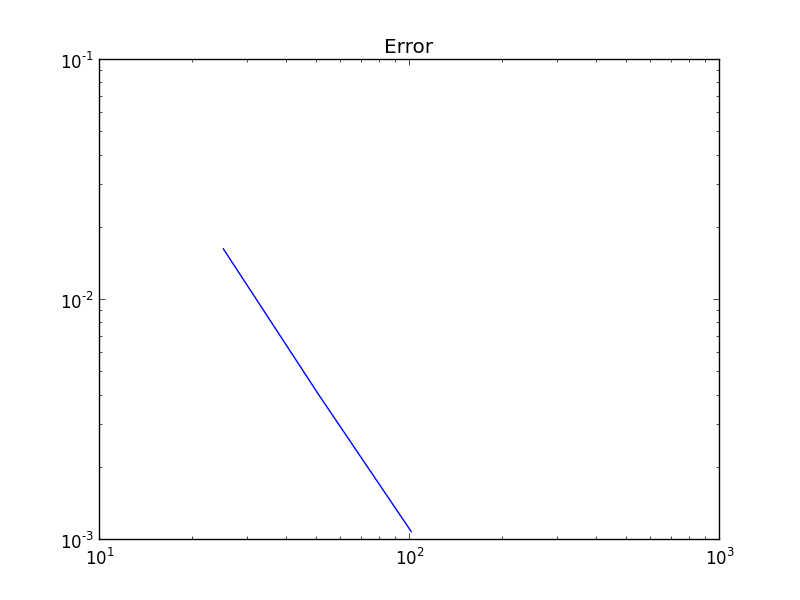
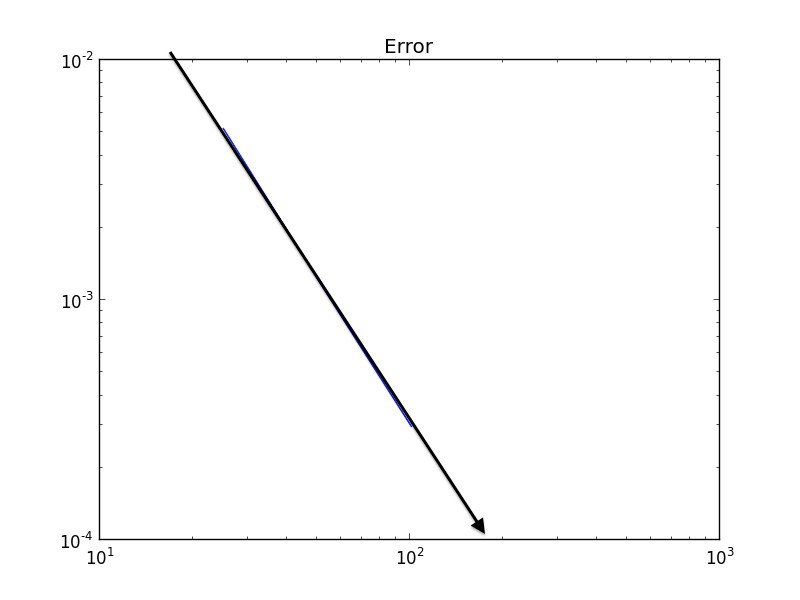
Same

diff --git a/2DAdvDiffEqConv.py b/2DAdvDiffEqConv.py
@@ -11,16 +11,17 @@ import errno
 ## 2DAdvDiffEq.py
 ## Remi Carmigniani
 ## Solves the 2D Diffusion Equation :
-## pd_t u[x,y,t] + pd_x u[x,y,t] + alpha * pd_y u[x,y,t] - 1/Pe(pd_xx u[x,y,t]+pd_yy u[x,y,t])  = 0 (x,y) in [0 2pi]^2
+## pd_t u[x,y,t] + pd_x u[x,y,t] +alpha pd_y u[x,y,t] - 1/Pe(pd_xx u[x,y,t]+pd_yy u[x,y,t])  = 0 (x,y) in [0 2pi]^2
 ## BC periodic
 ## IC u[x,y,0]=cos(x)+cos(y) 
 ## Convergence test\
 
+#IMPORTANT TO COPY A MATRIX USE u_old = [row[:] for row in u_arr] this will unlink them...
 
 ##Physical parameter
 Pe = 1.0
 L=2*pi
-alpha=0.1#Keep alpha smaller than 1
+
 ##################################################################################################################
 ############################			Useful functions		      ############################
 ##################################################################################################################
@@ -55,7 +56,7 @@ def iCond(x,y):
 
 
 #Exact solution
-def u_exact(x,y,t,Pe,apha):
+def u_exact(x,y,t,Pe,alpha):
 	return exp(-t/Pe)*(.5*cos(x-t) + .5*cos(y-alpha*t))
 
 ## Create a one row vector from the matrix u_arr
@@ -74,12 +75,21 @@ def vecToMatrix(u,nx,ny):
 		for j in range(0,ny):
 			Umat[i][j]=u[i*ny+j]
     	return Umat
+#Periodic BC
+def period(k,n):
+	if k==-1:
+		return n-2
+	else:
+		if k==n:
+			return 1
+		else:
+			return k 
 ##################################################################################################################
 ############################				End			      ############################
 ##################################################################################################################
 #Simulation parameters
 tend = 0.5
-
+alpha=0
 
 error=[]
 ## Series of N to try
@@ -93,7 +103,7 @@ for k in range(0,3):
 	dy=L/float(Ny-1)
 
 	## time parameters 
-	dt =0.01*dx*dx
+	dt =0.1*dx*dx
 	#to make sure tend is reached and stability ok
 	#dt = tend/float(int(tend/dt)+1)
 
@@ -101,11 +111,9 @@ for k in range(0,3):
 	# Laplacian terms
 	lx = 1.*dt/dx/dx
 	ly=1.*dt/dy/dy
-	# Adv terms
-	ax =.5*dt/dx
-	ay=.5*dt/dy*alpha
-
-
+	ax = 0.5*dt/dx
+	ay = 0.5*alpha*dt/dx
+	
 	## Figure numbering 
 	numb = 0
 	uval = iCond(0,0)
@@ -121,10 +129,10 @@ for k in range(0,3):
 	#for i in range(0,Nx):
 	#	for j in range(0,Ny):      
 	#		A[i*Ny+j][i*Ny+j]=1-2.*(lx+ly)
-	#		A[i*Ny+j][i*Ny+(j+1)%Ny] = ly-ay
-	#		A[i*Ny+j][i*Ny+(j-1)%Ny] = ly +ay 
-	#		A[i*Ny+j][((i+1)%Nx)*Ny+j] = lx-ax
-	#		A[i*Ny+j][((i-1)%Nx)*Ny+j] = lx+ax
+	#		A[i*Ny+j][i*Ny+(j+1)%Ny] = ly
+	#		A[i*Ny+j][i*Ny+(j-1)%Ny] = ly  
+	#		A[i*Ny+j][((i+1)%Nx)*Ny+j] = lx
+	#		A[i*Ny+j][((i-1)%Nx)*Ny+j] = lx
 	#convert u_arr to u_vec
 	#u_vec = matrixToVec(u_arr,Nx,Ny)
 	##Time loop
@@ -133,21 +141,22 @@ for k in range(0,3):
 		#print repr(t)
 		#update u_vec
 		#u_vec = np.dot(A,u_vec)
-		u_old = u_arr
+		u_old = [row[:] for row in u_arr]
 		for i in range(0,Nx):
 			for j in range(0,Ny):
-				u_arr[i][j]=u_old[i][j]*(1.-2.*(lx + ly)) + u_old[(i-1)%Nx][j]*(lx + ax)+u_old[(i+1)%Nx][j]*(lx - ax)+u_old[i][(j-1)%Ny]*(ly + ay)+u_old[i][(j+1)%Ny]*(ly - ay)
-					    
+				u_arr[i][j]=u_old[i][j]*(1.-2.*(lx + ly)) + u_old[period(i-1,Nx)][j]*(lx+ax) +u_old[period(i+1,Nx)][j]*(lx-ax)+u_old[i][period(j-1,Ny)]*(ly+ay)+u_old[i][period(j+1,Ny)]*(ly-ay)
+
+        print repr(u_arr[Nx-1][Ny-1])			    
 	#u_arr=vecToMatrix(u_vec,Nx,Ny)
 	##Calculate the error
 	
 	f = [[0 for i in xrange(Ny)] for i in xrange(Nx)]
 	for i in range(0,Nx):
 		for j in range(0,Ny):
-			f[i][j] =u_arr[i][j]- u_exact(i*dx,j*dy,t,Pe)
+			f[i][j] =u_arr[i][j]- u_exact(i*dx,j*dy,t,Pe,alpha)
 			f[i][j]=f[i][j]**2
-
-        err=errorL2(f,dx,dy,Nx,Ny)
+	
+        err=sqrt(errorL2(f,dx,dy,Nx,Ny))
 	error.append(err)
 	print 'Calculate the error  for ' + repr(Nx) + ' : ' + repr(err)
 
